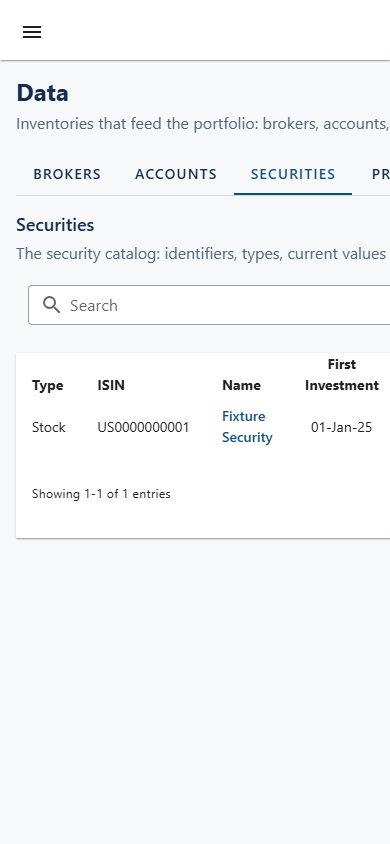
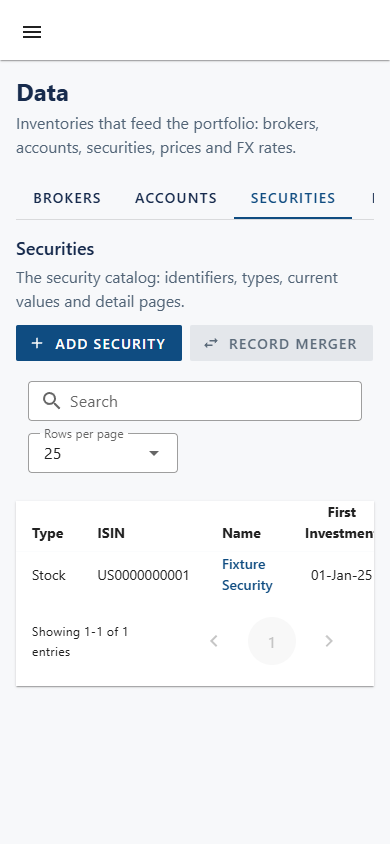
fix(workspace): contain the page grid at narrow viewports — mobile page controls were clipped off-screen
The committed d5-securities-mobile.png showed a real layout defect, not a
capture artifact (the image was already viewport-sized 390x844). Live
measurement at 390px: the .workspace-page single implicit grid track
sizes to the widest child's max-content (516-1135px depending on the
page's nowrap table), so headings/descriptions laid out unwrapped (587px)
and page controls sat outside the viewport — Add Security at x794-960,
Record Merger at x968-1151, Rows-per-page at x460, search clipped at
436 — while body overflow-x:hidden clipped ancestors without producing
scrollWidth overflow, which is why the D3-era scrollWidth probe passed.
Fix: grid-template-columns: minmax(0, 1fr) pins the column to the real
container width, and a min-width:0 chain on page/section/header children
lets text wrap instead of overflowing. Table overflow stays local
(verified: the table region still scrolls internally). Failing-first
browser regression (assertMobilePageControlsFlow) probes EVERY data
family at a real 390px viewport — description contained, shared
search/rows or the prices filter fields contained and elementFromPoint-
hittable, every primary/secondary action scrollable into view and
hittable, every data-nav section reachable through its scroll group —
plus desktop->390->desktop transitions on securities; the flow owns and
restores its viewport. All mobile captures are retaken with containment
asserted immediately before shooting; d5-securities-mobile.png re-inspected
[…]

diff --git a/frontend/src/assets/workspace.css b/frontend/src/assets/workspace.css
@@ -8,6 +8,17 @@
 }
 
 .workspace-page { display: grid; gap: var(--workspace-gap); }
+/* The single implicit grid track must never exceed the container: an auto
+   track sizes to the widest child's max-content (data-nav tabs, nowrap
+   tables), which blew every page out to 500-1135px inside a 390px viewport
+   while body overflow-x:hidden hid the damage from scrollWidth probes.
+   minmax(0, 1fr) pins the column to the real width; the min-width:0 chain
+   below lets flex children wrap instead of overflowing their now-correct
+   containers. */
+.workspace-page > *,
+.workspace-section > *,
+.workspace-page__header > div,
+.workspace-section__header > div { min-width: 0; }
 .workspace-page__header,
 .workspace-section__header { display: flex; align-items: flex-start; justify-content: space-between; flex-wrap: wrap; gap: var(--workspace-section-gap); }
 .workspace-page h1 { font-size: var(--workspace-page-title); line-height: 1.3; font-weight: 650; }
